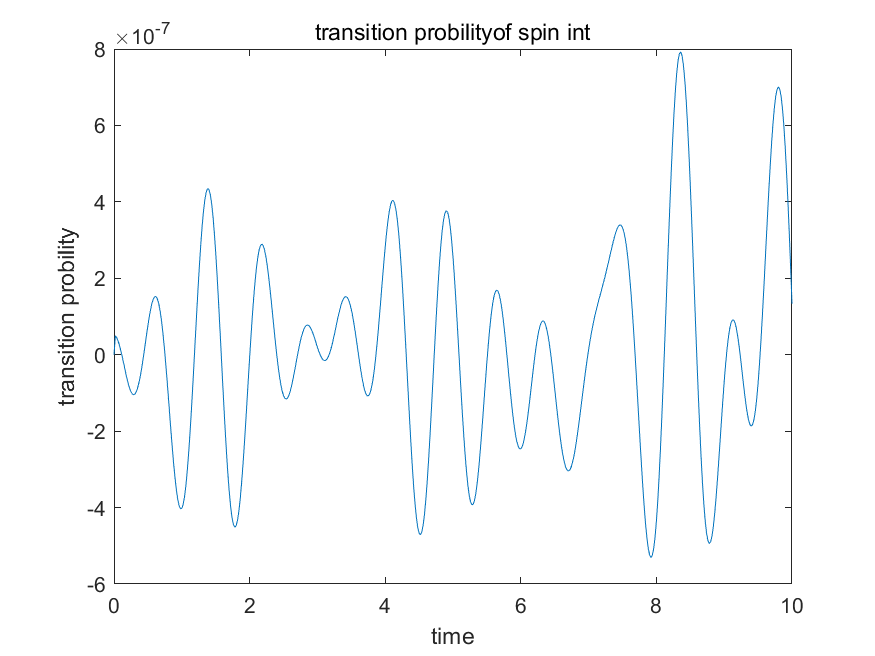
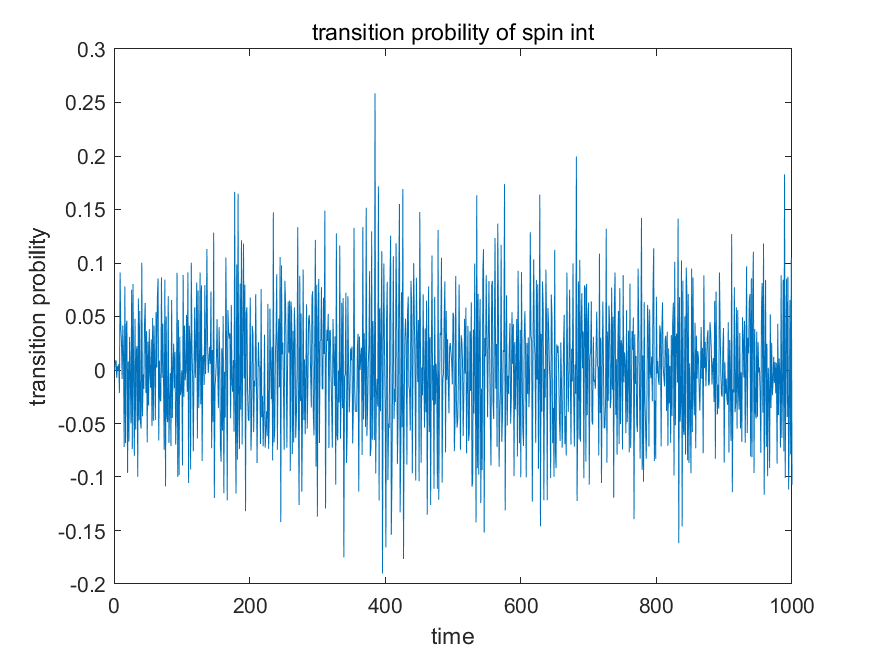
Fix bugs
Fix bugs, now the programs are right

diff --git a/spin_int.m b/spin_int.m
@@ -5,12 +5,14 @@ L = 8;
 len = 3^L;
 h0 = 1;
 sigma_z = [ 1 0 0; 0 0 0; 0 0 -1];
-sigma_x = [ 0 1 0; 1 0 1; 0 1 0]./sqrt(2);
+sigma_x = [ 0 1 0; 1 0 1; 0 1 0].*sqrt(2);
 I = eye(3);
 H = zeros(len,len);
-h = h0.*[1 0.8 0.6 0.4 -0.4 -0.6 -0.8 -1];
-dt = 0.02;
-t = 0:dt:10;
+% h = h0.*[1 0.8 0.6 0.4 -0.4 -0.6 -0.8 -1];
+h = h0.*[1 0.75 0.5 0.25 -0.25 -0.5 -0.75 -1];
+% h = h0.*[1 1 1 1 -1 -1 -1 -1];
+dt = 1;
+t = 0:dt:1000;
 
 % pos=1单独赋值
 H1 = sigma_z;
@@ -33,20 +35,19 @@ for i = 2:L-1
     H = H - H1;
 end
 
-% pos=L单独赋值
-H1 = sigma_z;
-for j = 2:L-1
-    H1 = kron(H1,I);
-end
-H1 = kron(H1,sigma_z);
-H = H - H1;
+% % pos=L单独赋值
+% H1 = sigma_z;
+% for j = 2:L-1
+%     H1 = kron(H1,I);
+% end
+% H1 = kron(H1,sigma_z);
+% H = H - H1;
 
 % pos=1单独赋值
 H2 = sigma_x;
 for j = 2:L
     H2 = kron(H2,I);
 end
-sigma_x1 = H2;
 H = H + h(i).*H2;
 
 for i = 2:L
@@ -75,22 +76,31 @@ phi1(end) = 1;
 G = zeros(length(t),1);
 
 G(1) = phi1'*phi0;
-a = V*phi0;
-b = V*phi1;
+a = V'*phi0;
+b = V'*phi1;
 e = diag(D);
 temp = exp(-1i*e*dt);
 tran = diag(temp);
 for i = 2:length(t)
     a = tran*a;
-    G(i) = real(b'*a);
-%     G(i) = G(i)^2;
+    G(i) = b'*a;
+%     G(i) = -log(abs(G(i)))/L;
+    G(i) = real(G(i));
 end
+
+% for i = 2:length(t)
+%     temp = exp(-1i*e*t(i));
+%     tran = diag(temp);
+%     phi = tran*a;
+%     G(i) = b'*phi;
+% %     G(i) = G(i)^2;
+% end
 
 figure;
 plot(t,G);
 xlabel('time')
 ylabel('transition probility')
-str = strcat('transition probilityof spin int');
+str = strcat('transition probility of spin int');
 title(str)
 fname = ['transition probility_spin int','.png '];
 saveas(gcf, fname, 'png')

diff --git a/spin_half.m b/spin_half.m
@@ -8,9 +8,11 @@ sigma_z = [ 1 0; 0 -1];
 sigma_x = [ 0 1; 1 0];
 I = eye(2);
 H = zeros(len,len);
-h = h0.*[1 0.8 0.6 0.4 -0.4 -0.6 -0.8 -1];
-dt = 0.02;
-t = 0:dt:10;
+% h = h0.*[1 0.8 0.6 0.4 -0.4 -0.6 -0.8 -1];
+h = h0.*[1 0.75 0.5 0.25 -0.25 -0.5 -0.75 -1];
+% h = h0.*[1 1 1 1 -1 -1 -1 -1];
+dt = 0.1;
+t = 0:dt:100;
 
 % pos=1单独赋值
 H1 = sigma_z;
@@ -33,20 +35,19 @@ for i = 2:L-1
     H = H - H1;
 end
 
-% pos=L单独赋值
-H1 = sigma_z;
-for j = 2:L-1
-    H1 = kron(H1,I);
-end
-H1 = kron(H1,sigma_z);
-H = H - H1;
+% % pos=L单独赋值
+% H1 = sigma_z;
+% for j = 2:L-1
+%     H1 = kron(H1,I);
+% end
+% H1 = kron(H1,sigma_z);
+% H = H - H1;
 
 % pos=1单独赋值
 H2 = sigma_x;
 for j = 2:L
     H2 = kron(H2,I);
 end
-sigma_x1 = H2;
 H = H + h(i).*H2;
 
 for i = 2:L
@@ -78,14 +79,23 @@ tran = diag(temp);
 for i = 2:length(t)
     a = tran*a;
     G(i) = b'*a;
-%     G(i) = G(i)^2;
+%     G(i) = -log(abs(G(i)))/L;
+    G(i) = real(G(i));
 end
 
+% for i = 2:length(t)
+%     temp = exp(-1i*e*t(i));
+%     tran = diag(temp);
+%     phi = tran*a;
+%     G(i) = b'*phi;
+% %     G(i) = G(i)^2;
+% end
+
 figure;
-plot(t,real(G));
+plot(t,G);
 xlabel('time')
 ylabel('transition probility')
-str = strcat('transition probility of spin haf');
+str = strcat('transition probility of spin half');
 title(str)
 fname = ['transition probility_spin half','.png '];
 saveas(gcf, fname, 'png')
